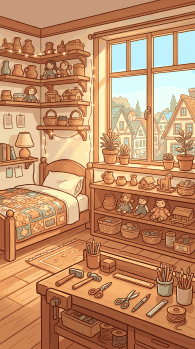
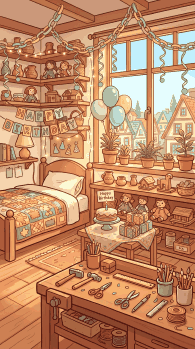
라팁씨 생일 파티 방·꼬깔모자 별승연·선택지 문구

diff --git a/data.js b/data.js
@@ -1,2 +1,2 @@
 /* 가나랜드 보물찾기 — 공개용 데이터 (코드·문장은 암호화) */
[2 lines of base64/hex data omitted]

diff --git a/index.html b/index.html
@@ -682,7 +682,7 @@
   </div>
 </div>
 
-<script src="data.js?v=mvgronii"></script>
+<script src="data.js?v=mvgrt1ms"></script>
 <script>
 /* ---------- 픽셀 스프라이트 ---------- */
 const PAL = {
@@ -1155,7 +1155,7 @@ function setChars(sp){
         const im=(n.cakeImg&&hasGift(sp.id+':'+n.key))?n.cakeImg:n.img;
         return `<img class="ch npc${n.small?' small':''}${n.anim==='dance'?' dance':''}${n.anim==='glow'?' glow':''}" style="${st}" data-who="${n.key}" src="assets/${im}.png" alt="">`;
       }).join('')
-      + g.map((k,i)=>`<img class="ch gd" style="${sp.guideStyle?sp.guideStyle[i]:'right:'+(6+(g.length-1-i)*92)+'px'}" data-who="${k}" src="assets/guide_${k}.png" alt="">`).join('')
+      + g.map((k,i)=>`<img class="ch gd" style="${sp.guideStyle?sp.guideStyle[i]:'right:'+(6+(g.length-1-i)*92)+'px'}" data-who="${k}" src="assets/${(sp.guideImg&&sp.guideImg[k])||'guide_'+k}.png" alt="">`).join('')
       + `<img class="ch pc gone" style="${sp.pcStyle?sp.pcStyle[0]:'right:104px'}" data-who="minsu" src="assets/hero_m.png" alt="민수">`
       + `<img class="ch pc gone" style="${sp.pcStyle?sp.pcStyle[1]:'right:2px'}" data-who="gana" src="assets/hero_w.png" alt="가나">`;   // 가이드 퇴장 후 등장
     return;
